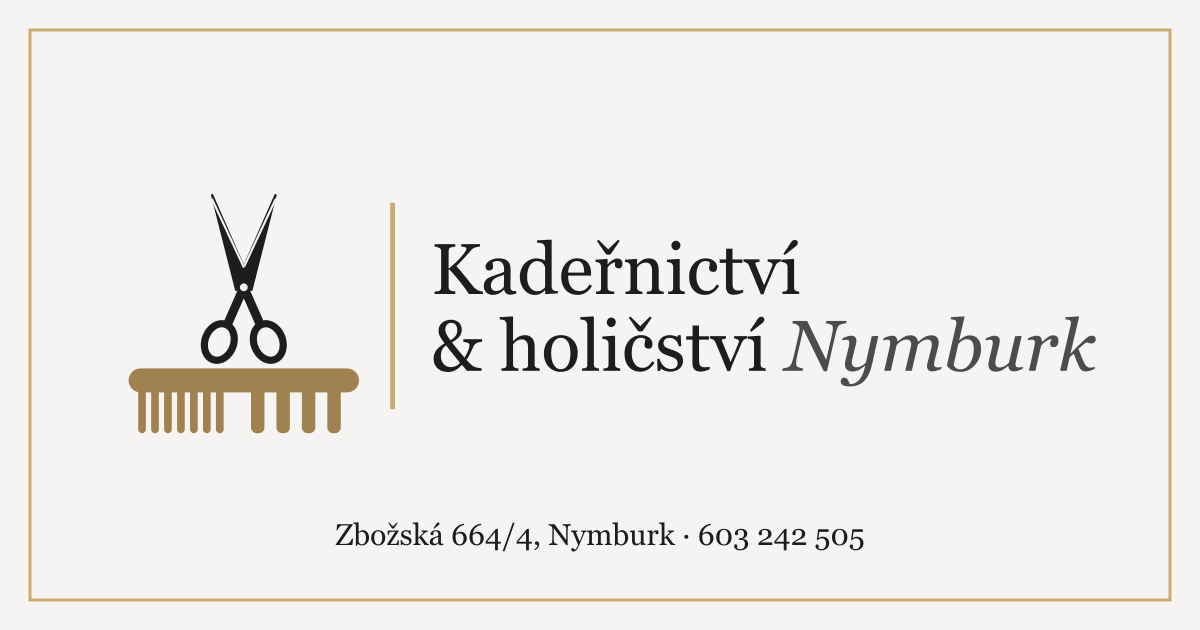
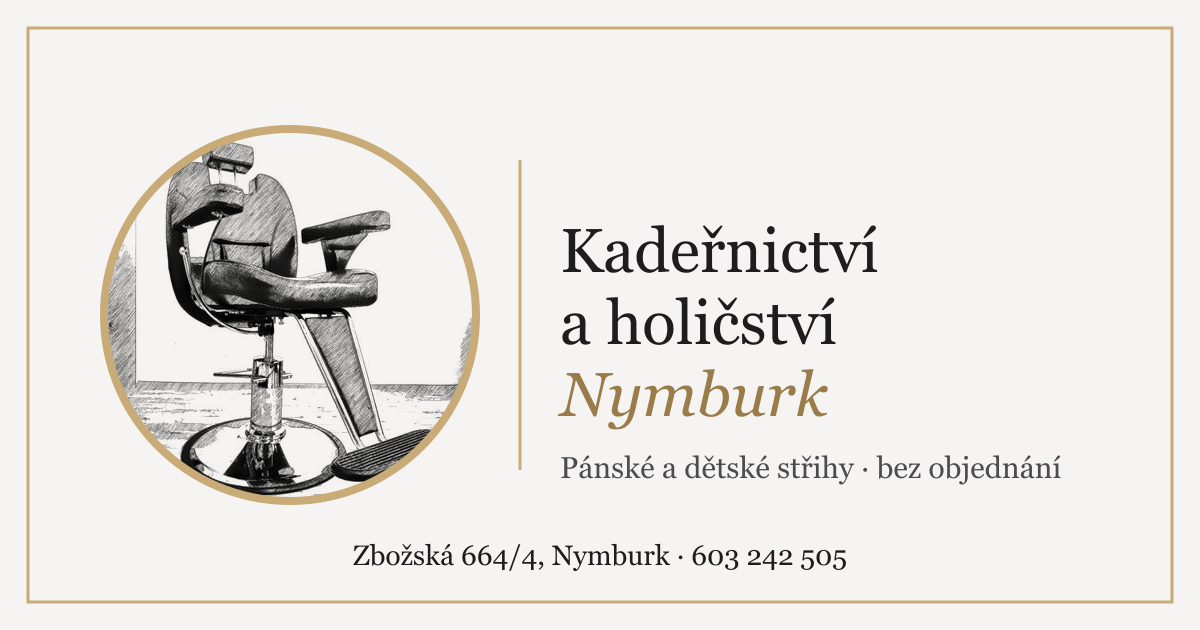
fav icony update

diff --git a/README.md b/README.md
@@ -25,7 +25,7 @@ npm test         # jednotkové testy (Vitest): otevřeno / zavřeno
 | Okolí (obce) a časté dotazy | `src/data/okoli.json` |
 | Nadpis úvodu, platba, provozovatel | `src/data/firma.json` (`hero`, `platba`, `provozovatel`) |
 | Logo v hlavičce (židle) | `scripts/make-logo-zidle.mjs` z `src/assets/logo-zidle.jpg` vyrobí `public/logo-zidle.webp` (120 × 120 px) |
-| Logo (hřeben, favicon, og) | `scripts/make-logo.mjs` (jedna definice), pak `node scripts/make-logo.mjs` vygeneruje `public/logo.svg`, `logo-mark.svg`, `favicon.svg`, `logo-512.png`, `og.png` |
+| Logo (hřeben do ceníku) | `scripts/make-logo.mjs` vygeneruje `public/logo.svg`, `logo-mark.svg`, `logo-512.png`. Favicony a `og.png` (židle) jsou hotové v `public/` a skript je nevyrábí. |
 | Barvy a písma | CSS proměnné na začátku `src/styles/global.css` |
 | Fonty | balíčky `@fontsource-variable/*`, hostované lokálně, žádné CDN |
 
@@ -68,6 +68,6 @@ Lokálně lze adresu přepsat proměnnými `SITE_URL` a `BASE_PATH`.
 - Ověřit platnost pánského ceníku (platnost od 1. 3. 2025)
 - PSČ, doména, `site` v `astro.config.mjs`, `Sitemap:` v `robots.txt`
 - Potvrdit s majitelkou zveřejnění jména a IČ provozovatele
-- Schválit sjednocení favicony a `og.png` (`node scripts/navrh-favicon-og.mjs` vyrobí náhled do `nahled-favicon-og/`)
+- Favicony a `og.png` jsou sjednocené s logem židle (hotovo).
 - Souhlas zákazníků s fotkami (děti)
 - Standalone `public/logo.svg` používá text s písmem Fraunces/Georgia (záložní); pro tisk převést text na křivky

diff --git a/CLAUDE.md b/CLAUDE.md
@@ -121,3 +121,4 @@ Jednostránkový, mobile-first web (česky) pro kadeřnictví a holičství v Ny
 - 2026-10-14 – Kolo 4: nový hero nadpis a podnadpis, věta o platbě v hotovosti, provozovatel Lucie Řehořová (IČ 71108271) v Kontaktu/Soukromí/JSON-LD, sekce Okolí a Časté dotazy (`okoli.json`, odpovědi z dat), SEO (title, description, JSON-LD z dat, robots.txt ze SITE_URL), návrh favicony a og.png ke schválení, +26 testů (celkem 61).
 - 2026-10-15 – Provozovatel (jméno, IČ) přesunut z Kontaktu do patičky (`.paticka-provozovatel`, řádek pod ostatními sloupci); v Kontaktu zůstává jen adresa, telefon, Facebook, hodiny. Doména kadernictvinymburk.cz nasazena (HTTPS, www i http přesměrování ověřeno).
 - 2026-10-15 – Hero nadpis: větší řádkování (1,2 místo 1,02), poslední řádek „Bez objednání.“ menší (0,82 em).
+- 2026-10-15 – Favicon a og.png nahrazeny logem židle (kulatý výřez s champagne rámečkem): public/favicon.ico (16/32/48), favicon-32.png, apple-touch-icon.png (180), icon-192/512.png, og.png (1200×630, z nahled-favicon-og). Base.astro odkazuje na ico + png + apple-touch-icon. Starý public/favicon.svg (hřeben) smazán; scripts/make-logo.mjs už favicon.svg ani og.png nevyrábí.
